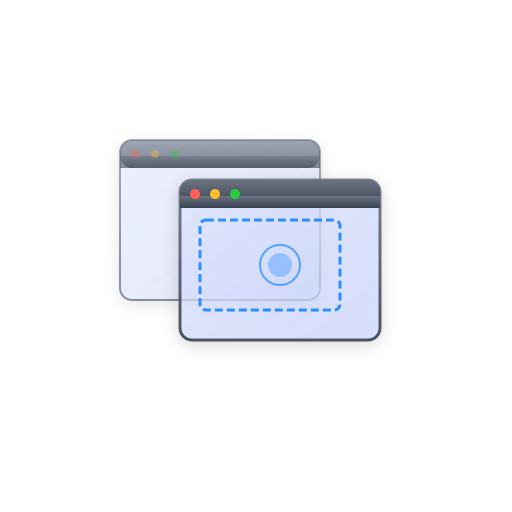
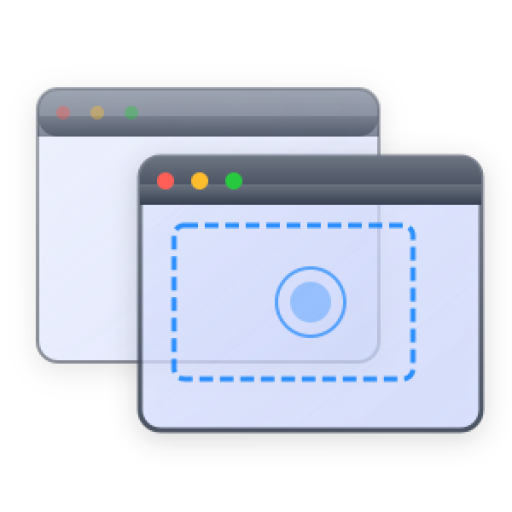
アイコン変更

diff --git a/TransparentWindowCapture/main.swift b/TransparentWindowCapture/main.swift
@@ -131,7 +131,16 @@ class AppDelegate: NSObject, NSApplicationDelegate {
         statusBarItem = NSStatusBar.system.statusItem(withLength: NSStatusItem.variableLength)
 
         if let button = statusBarItem?.button {
-            button.image = NSImage(systemSymbolName: "video.circle", accessibilityDescription: "GlassView")
+            // カスタムアイコンを使用（アプリケーションアイコンと同じテイスト）
+            if let iconImage = NSImage(named: "StatusBarIcon") {
+                // ステータスバー用にサイズを調整
+                iconImage.size = NSSize(width: 18, height: 18)
+                iconImage.isTemplate = true // ダークモード対応
+                button.image = iconImage
+            } else {
+                // フォールバック：システムシンボル
+                button.image = NSImage(systemSymbolName: "video.circle", accessibilityDescription: "GlassView")
+            }
             button.toolTip = "GlassView"
         }
 
